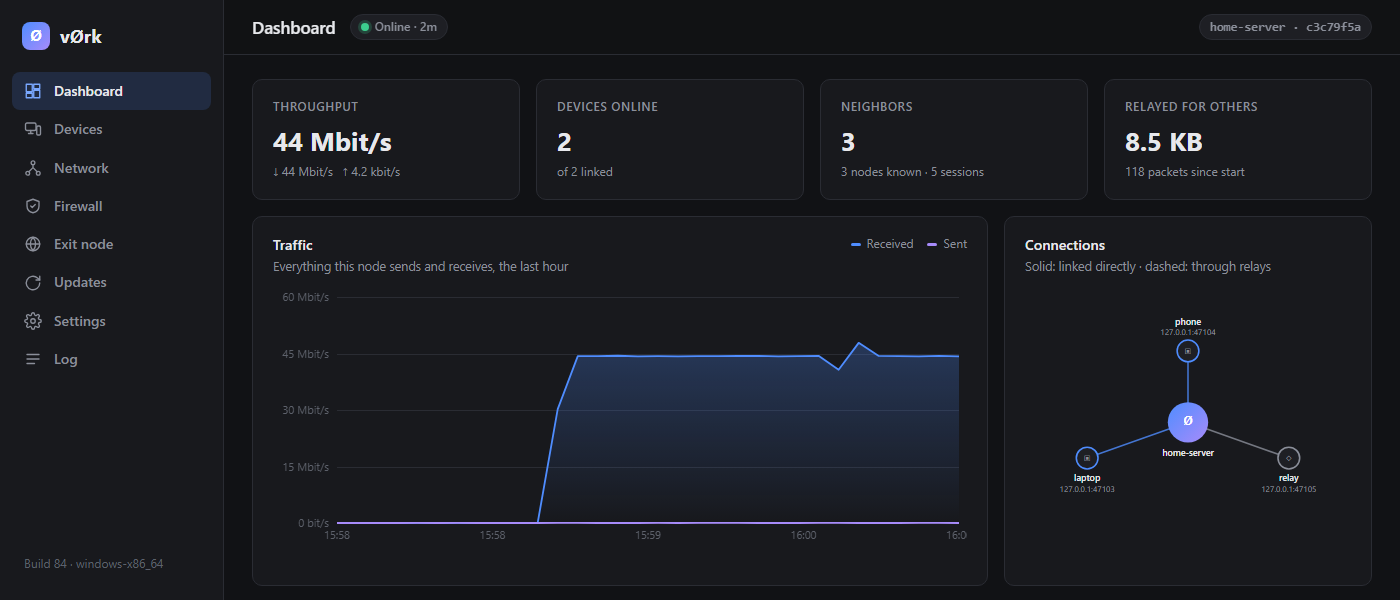
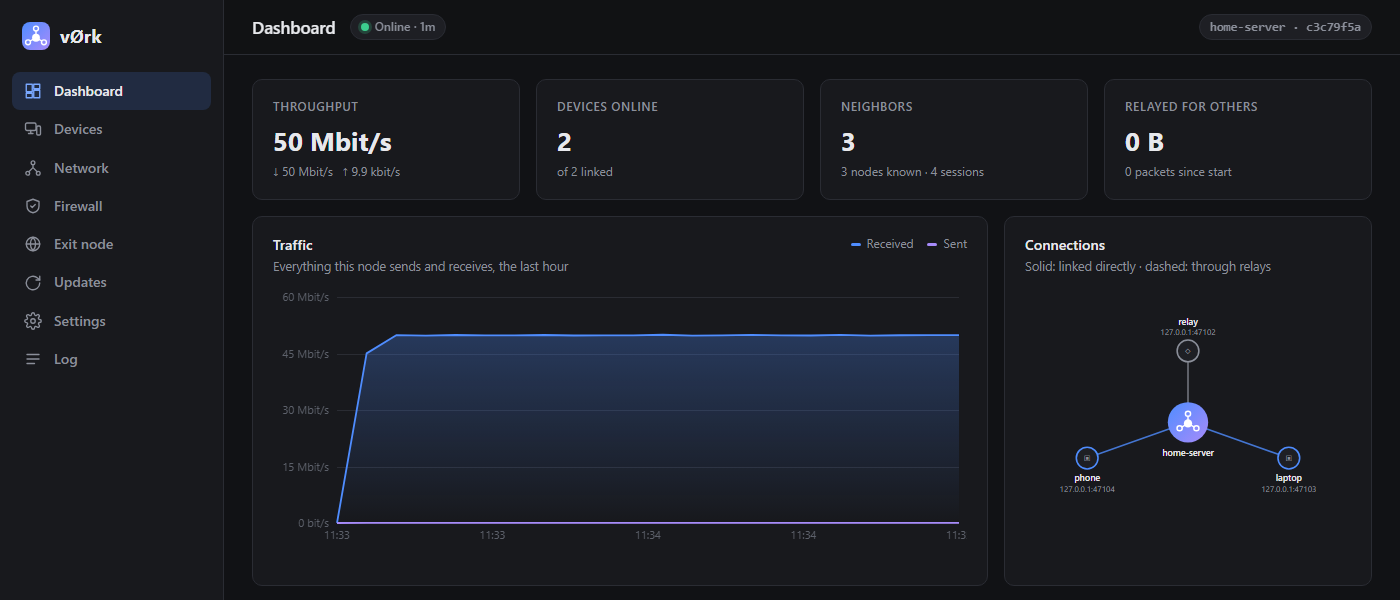
Docs to the current state: roadmap, vision, technical overview, README screenshots and Docker
- Roadmap: where it stands (v0.1.0, what's built since the prototype, what's
  next); M1 and M9 done, M2 and M3 mostly, with what came since.
- Vision: the layers' status.
- Technical overview: downloads from the releases page, the MSI, Docker.
- README: the icon, new dashboard screenshots (the new logo, Hostname), a NAS
  or server with Docker (node.yaml).
- A test used a real machine's address: an example one now.

diff --git a/clients/web/src/main.rs b/clients/web/src/main.rs
@@ -420,11 +420,11 @@ mod tests {
     #[test]
     fn nets() {
         let lan = Net::parse("192.168.0.0/24").unwrap();
-        assert!(lan.contains("192.168.0.18".parse().unwrap()));
+        assert!(lan.contains("192.168.0.20".parse().unwrap()));
         assert!(!lan.contains("192.168.1.18".parse().unwrap()));
         assert!(lan.contains("::ffff:192.168.0.7".parse().unwrap()));
         let tail = Net::parse("100.64.0.0/10").unwrap();
-        assert!(tail.contains("100.75.58.112".parse().unwrap()));
+        assert!(tail.contains("100.101.102.103".parse().unwrap()));
         assert!(!tail.contains("100.128.0.1".parse().unwrap()));
         assert!(Net::parse("::1").unwrap().contains("::1".parse().unwrap()));
         assert!(Net::parse("0.0.0.0/0").unwrap().contains("8.8.8.8".parse().unwrap()));

diff --git a/docs/04-roadmap.md b/docs/04-roadmap.md
@@ -2,9 +2,15 @@
 
 Each milestone ends in something that runs and is measured (proto first). "Done when" is the acceptance test. Order follows two rules: make vØrk usable on our own machines early, so that using it finds the problems; and check the riskiest unknowns before much is built on top of them.
 
+## Where it stands (2026-11-20)
+
+vØrk replaces Tailscale on the author's own machines (a Linux server, a Windows PC, Android phones, a TrueNAS box), released as [v0.1.0](https://github.com/vooteleaer/vork/releases/tag/v0.1.0), a pre-release: installers for Windows (MSI), Android, Debian/Ubuntu, static Linux binaries and a Docker setup for NAS boxes.
+
+Built since the prototype: the node as a service (M1); the TUN interface on Linux, Windows and Android with IPv6 sessions and IPv4 delivered as IPv4 (M2); `.vork` names, devices linked with consent and one group per owner, the walled-garden firewall (M3); exit nodes (Linux offers, Windows and Android use); reachability learned from others, LAN discovery and router port mapping; a dashboard on every platform (a window on the desktop, the Android app, the browser); self-updating with signed releases; storage on vØrk (M9). Next: hardening (M4), Linux as an exit client, routing for big networks, a project release key.
+
 ```
 M0 prototype (done)
- ├─ M1 config & service ── M9 storage on vØrk (next) ─┬─ M2 IPv6 sessions & TUN ── M3 DNS, whois, identity firewall
+ ├─ M1 config & service (done) ── M9 storage on vØrk (done) ─┬─ M2 IPv6 sessions & TUN (mostly) ── M3 DNS, devices, firewall (mostly)
  │                                                    └─ M10 embedded stack (no admin rights)
  ├─ M4 hardening
  ├─ S1 ESP32 spike (parallel, early) ── M5 ESPHome component
@@ -20,12 +26,12 @@ Milestone numbers are names, not order: M9 comes right after M1, because storage
 
 Links with fresh-handshake liveness, signed announces, path labels swapped per hop, several paths per session with probing and failover, Lite profile, path requests, observed addresses, direct links, router port mapping, ping and bench. Tested on localhost and between a PC and the server across a router (~450–500 Mbit/s, CPU-bound on the server).
 
-## M1 Config, service, persistence — in progress
+## M1 Config, service, persistence — done
 
 - **Goal:** a node that runs 24/7 (a home server as a public backbone) and survives restarts.
 - **Scope:** a config file (TOML: key path, listen address, bootstrap peers, flags); the announce sequence number as a stored counter instead of the clock (open question 3); remembered neighbors (reconnect after restart without bootstrap); a state directory for what the node chooses once and keeps (sequence counter, neighbors, later the IPv4 alias range and aliases); a systemd unit and a Windows service; log levels; `vork status` over a local control socket.
 - **Done when:** a server runs vØrk as a service through a restart and a reboot; a PC reconnects without `--peer` after its first contact.
-- **Status:** implemented and tested locally: `vork init`, `vork.toml`, the state directory (key created on first run, sequence counter, remembered neighbors), reconnecting without bootstrap peers, `vork status` over a Unix socket / named pipe, log levels and a log file, `packaging/vork.service`, `vork service install|uninstall` on Windows. The server runs it as a service since 2026-11-18 (UDP 51820): it reconnects to remembered neighbors after `systemctl restart`, and a PC reconnects to it without `--peer`. Left: a reboot of the server, and a port forward of UDP 51820 to it so nodes outside the LAN reach it.
+- **Status:** implemented and tested locally: `vork init`, `vork.toml`, the state directory (key created on first run, sequence counter, remembered neighbors), reconnecting without bootstrap peers, `vork status` over a Unix socket / named pipe, log levels and a log file, `packaging/vork.service`, `vork service install|uninstall` on Windows. The server runs it as a service since 2026-11-18 (UDP 51820): it reconnects to remembered neighbors after `systemctl restart`, and a PC reconnects to it without `--peer`. Since then the server has run it through reboots behind a port forward, and installers set it up: an MSI on Windows, a .deb, a Docker setup (ADR-0029).
 - **Depends on:** nothing.
 
 ## S1 ESP32 spike (parallel, early)
@@ -35,20 +41,22 @@ Links with fresh-handshake liveness, signed announces, path labels swapped per h
 - **Done when:** a PC pings the ESP32 by its address through the server, end to end encrypted; flash and RAM use measured.
 - **Risks:** the inner layer may not fit the stock libraries; then the outcome is a change to the wire format (for example, a lighter inner layer for Lite nodes) decided before M12.
 
-## M2 IPv6 sessions and TUN
+## M2 IPv6 sessions and TUN — mostly done
 
 - **Goal:** ordinary applications reach peers by identity.
 - **Scope:** sessions carry IPv6 packets between overlay addresses (ADR-0017, ADR-0021), one per identity, all of a machine's identities on its TUN interface, source checked against the session's identity; the ping/bench/candidate functions move to a control service on the overlay; a TUN interface (Linux `/dev/net/tun`; Windows wintun); the node drops packets whose overlay source doesn't match the session's identity; **flow pinning** (a TCP/UDP flow stays on one path, chosen by hash of its 5-tuple; spray stays for bulk native traffic); MTU set so both layers fit in 1500 (inner MTU about 1360, to be measured).
 - **First part done (2026-11-18):** Linux TUN (`tun = "vork0"`), the node's identity as `fd…`/128 and `fd00::/8` routed to the interface, IPv6 as session datagrams with the source checked against the identified far end, answers on the session they came in on. Two nodes in separate network namespaces: ping6 0.2–0.3 ms, HTTP over `fd…`, 20 MB at ~1.1 Gbit/s. Then Windows (wintun: `tun = "vork"` with wintun.dll next to vork.exe, needs the service's administrator rights; built, not run yet) and Android (the app's VpnService makes the interface, `fd00::/8` only, and hands it to the node over `tun.sock`, `tun = "fd"`; handover tested on Linux, the app not on a phone yet). Left: applications' identities on the interface, flow pinning, the MTU measured, turning the Android interface off without restarting the node.
+- **Since (2026-11-19/20):** Windows (wintun) and Android run every day; IPv4 between devices at a derived address the same everywhere, translated at the nodes and delivered as IPv4 at the far end (a server listening on IPv4 only is reached; one refusing IPv4 gets the conversation as IPv6) (ADR-0021); exit nodes carry a device's internet (ADR-0026): Linux offers, Android and Windows use one, the LAN kept local.
 - **Done when:** `ssh` to `fd…` (a home machine) from a laptop behind another NAT works through relays and then over a direct link; an `iperf3` TCP test runs without reordering trouble over two paths.
 - **Depends on:** M1, M9 (sessions).
 
-## M3 Daemon API, whois, DNS, identity firewall
+## M3 Daemon API, whois, DNS, identity firewall — mostly done
 
 - **Goal:** applications know who is on the other end, and names replace addresses.
 - **Scope:** the rest of the **shared node** (ADR-0020; M9 brings the first part): status, peers, `whois(overlay address) → identity`; **DNS** (ADR-0018): `<address>.vork` and petnames from a local file, AAAA and PTR, and **IPv4 aliases** handed out by `A` queries with translation at the node (ADR-0021), wired into the OS only for its own domain (systemd-resolved routing domain, Windows NRPT, macOS `/etc/resolver`); an **identity firewall**: which identities may reach which ports/services.
 - **Progress:** the resolver at `fd00::53` answers `<name>.vork` for this node and the owner's devices and `<address>.vork` for any node, wired in through systemd-resolved, NRPT and the Android VPN (ADR-0025).
 - **Progress (identity firewall):** the walled garden (ADR-0027): the owner's devices reach a node's services, other nodes what `allow` opens; relaying untouched.
+- **Progress (devices):** devices are linked with both sides agreeing, by QR code or link (ADR-0024), and an owner's devices are one group: a device linked to one is linked to all (ADR-0030). Left: whois for applications, several identities per node.
 - **Done when:** `ssh nas.vork` works over IPv6 and an IPv4-only program reaches the same name through its alias; a service sees the caller's identity through whois; a connection from an identity not on the list is refused; two programs on one machine, each with its own identity, are reachable through the same node.
 - **Depends on:** M2.
 
@@ -87,7 +95,7 @@ Links with fresh-handshake liveness, signed announces, path labels swapped per h
 - **Scope:** membership by signed invitations and revocations; island announces encrypted to the members; island policy (direct links allowed, relays preferred among members); later backed by a storage library.
 - **Depends on:** M7.
 
-## M9 Storage on vØrk — next
+## M9 Storage on vØrk — done
 
 - **Goal:** vØrk storage runs on vØrk with no Reticulum code, its format unchanged so existing libraries move over (ADR-0015, ADR-0022).
 - **Scope, in steps that each run:**

diff --git a/docs/technical-overview.md b/docs/technical-overview.md
@@ -45,7 +45,7 @@
 
 ## Try it
 
-Prebuilt static binaries are in `dist/` (Linux x86_64, Linux aarch64 for a Raspberry Pi, Windows x86_64), or `cargo build --release`.
+Installers and static binaries (Linux x86_64 and aarch64, Windows x86_64) are on the [releases page](https://github.com/vooteleaer/vork/releases); the README says which to take. Or `cargo build --release`.
 
 ```sh
 vork init                         # writes vork.toml, creates the identity, prints address and wg key
@@ -58,8 +58,9 @@ vork status                       # asks the running node (neighbors, destinatio
 
 As a service:
 
-- **Linux:** `packaging/vork.service` (instructions inside): `vork init` as root, install the unit, `systemctl enable --now vork`.
-- **Windows** (as administrator): `vork init`, then `vork service install` (starts at boot; logs to `vork.log` in the state directory), `vork service uninstall` to remove it.
+- **Linux:** the `.deb`, or `packaging/vork.service` (instructions inside): `vork init` as root, install the unit, `systemctl enable --now vork`.
+- **Windows:** the MSI (`packaging/windows`) installs the service, wintun.dll and the `vork-net` window. By hand, as administrator: `vork init`, then `vork service install` (starts at boot; logs to `vork.log` in the state directory), `vork service uninstall` to remove it.
+- **Docker, a NAS (TrueNAS SCALE):** `packaging/docker/node.yaml`, the node alone in one small container.
 
 Testing tools: `--ping <address>` once a second; `--bench <address> --bench-rate <Mbit/s>` sends paced traffic (1200-byte packets) and the receiver logs what arrives and the loss each second. There is no congestion control in the bench: above the ceiling it just loses packets.
 

diff --git a/README.md b/README.md
@@ -1,3 +1,5 @@
+<img src="docs/images/icon.svg" alt="" width="64" align="right">
+
 # vØrk
 
 **Your own private network between your devices: no account, no company in the middle.**
@@ -44,6 +46,7 @@ Downloads are on the [releases page](https://github.com/vooteleaer/vork/releases
 | **Android** | `vork-net-<version>.apk` | the app: the node, the dashboard, a VPN for your apps |
 | **Debian 12, Ubuntu 22.04** or newer, elementary OS 7, Linux Mint 21 (x86-64) | `vork_<version>_amd64.deb` | the node as a system service, and the vØrk window |
 | **Any Linux**, older ones too | `vork-linux-x86_64`, `vork-linux-aarch64` | the node alone, one static file: install it as below; its dashboard opens in the browser (`vork web-link`) |
+| **A NAS or server with Docker** (TrueNAS SCALE: Apps → Install via YAML) | [`packaging/docker/node.yaml`](packaging/docker/node.yaml) | the node in one small container, its dashboard on port 30742; the NAS's apps become reachable from your devices at `nas-name.vork:<port>` |
 
 Once it runs, the dashboard's **Updates** page tells you when a newer release is out.
 

diff --git a/docs/00-vision.md b/docs/00-vision.md
@@ -25,10 +25,10 @@ It is meant to be:
 
 | Layer | What | Status |
 |---|---|---|
-| L3 Applications | native API (identity + service) and overlay IPv6 for existing software | planned |
-| L2 Islands | closed groups inside the open network | proposed |
-| L1 Storage | vØrk storage (formerly retifs): encrypted, content-addressed, replicated | prototype, still on Reticulum; moving to vØrk |
-| L0 Network | identities, links, announces, paths, relaying, NAT traversal | prototype |
+| L3 Applications | native API (identity + service) and overlay IPv6 for existing software | in use: the TUN interface, `.vork` names, IPv4, exit nodes, the local API |
+| L2 Islands | closed groups inside the open network | proposed (an owner's devices are one group today, ADR-0030) |
+| L1 Storage | vØrk storage (formerly retifs): encrypted, content-addressed, replicated | prototype, on vØrk (ADR-0022) |
+| L0 Network | identities, links, announces, paths, relaying, NAT traversal | prototype, in daily use; v0.1.0 released |
 
 ## Non-goals
 
